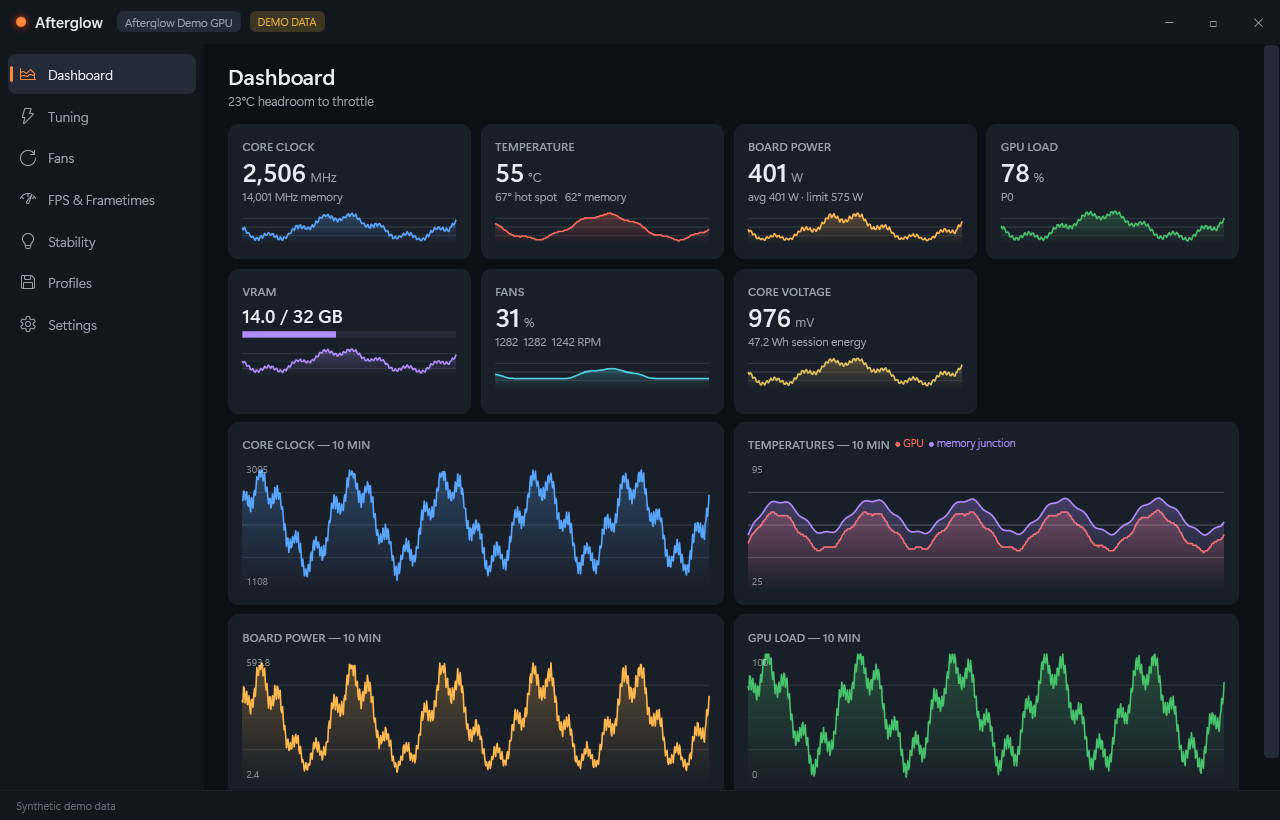
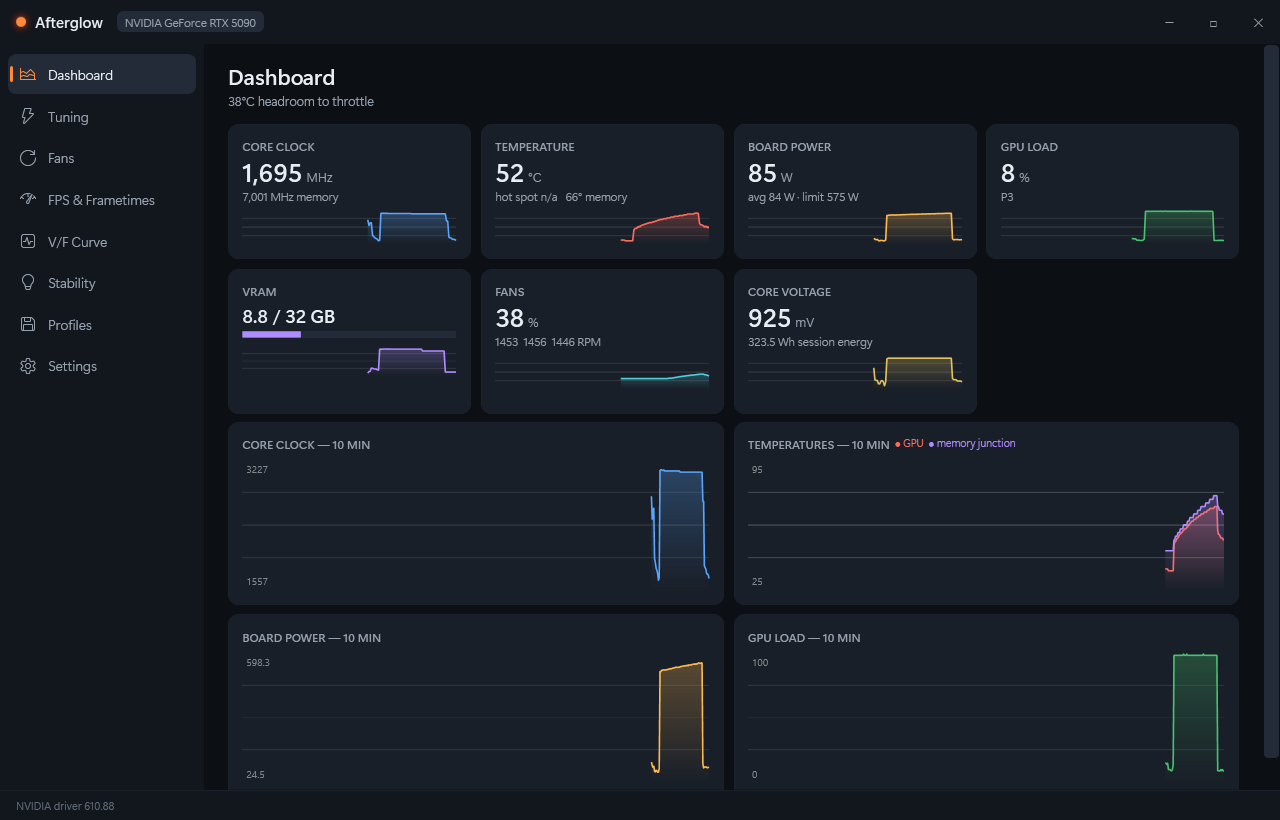
Fix V/F chart label collisions; real-hardware screenshots in the README
- The x-axis unit rides on the final tick label instead of a floating
  mV that collided with it; tick labels clamp inside the plot
- The live now marker and the target label render on backing pills
  with edge-aware placement, readable anywhere on the chart
- --screenshot-delay N lets screenshot mode accumulate longer telemetry
- README hero replaced with a real RTX 5090 capture (burn-test ramp
  across all graphs) and the measured V/F curve page added

diff --git a/src/Afterglow.App/Controls/VfCurveChart.cs b/src/Afterglow.App/Controls/VfCurveChart.cs
@@ -146,12 +146,23 @@ public sealed class VfCurveChart : FrameworkElement
 
         var gridPen = new Pen(GridBrush, 1);
 
-        // Axes
-        for (double v = _minV; v <= _maxV; v += Math.Max(25, Math.Round((_maxV - _minV) / 8 / 25) * 25))
+        // X axis: the unit rides on the last tick's label instead of floating
+        // separately (a standalone "mV" collides with the final tick).
+        double tickStep = Math.Max(25, Math.Round((_maxV - _minV) / 8 / 25) * 25);
+        var ticks = new List<double>();
+        for (double v = _minV; v <= _maxV + 0.01; v += tickStep)
         {
-            var p = ToScreen(v, _minF);
+            ticks.Add(v);
+        }
+
+        for (int i = 0; i < ticks.Count; i++)
+        {
+            var p = ToScreen(ticks[i], _minF);
             dc.DrawLine(gridPen, new Point(p.X, r.Y), new Point(p.X, r.Bottom));
-            DrawLabel(dc, $"{v:F0}", new Point(p.X - 12, r.Bottom + 5), 10);
+            string text = i == ticks.Count - 1 ? $"{ticks[i]:F0} mV" : $"{ticks[i]:F0}";
+            var formatted = Format(text, 10, LabelBrush);
+            double x = Math.Min(p.X - (formatted.Width / 2), ActualWidth - formatted.Width - 2);
+            dc.DrawText(formatted, new Point(Math.Max(2, x), r.Bottom + 5));
         }
 
         for (int i = 0; i <= 4; i++)
@@ -161,8 +172,6 @@ public sealed class VfCurveChart : FrameworkElement
             dc.DrawLine(gridPen, new Point(r.X, p.Y), new Point(r.Right, p.Y));
             DrawLabel(dc, $"{f:F0}", new Point(4, p.Y - 7), 10);
         }
-
-        DrawLabel(dc, "mV", new Point(r.Right - 16, r.Bottom + 5), 10);
 
         if (curve is not { Count: > 1 })
         {
@@ -216,26 +225,48 @@ public sealed class VfCurveChart : FrameworkElement
             dc.DrawLine(dashed, new Point(r.X, t.Y), new Point(r.Right, t.Y));
             dc.DrawLine(dashed, new Point(t.X, r.Y), new Point(t.X, r.Bottom));
             dc.DrawEllipse(null, new Pen(TargetBrush, 2.5), t, 6, 6);
-            DrawLabel(dc, $"target {TargetClock:F0} MHz @ {TargetVoltage:F0} mV",
-                new Point(Math.Min(t.X + 10, r.Right - 165), t.Y - 18), 11, TargetBrush);
+
+            var targetLabel = Format($"target {TargetClock:F0} MHz @ {TargetVoltage:F0} mV", 11, TargetBrush);
+            double tx = Math.Clamp(t.X + 10, r.X + 2, r.Right - targetLabel.Width - 6);
+            double ty = Math.Clamp(t.Y - 20, r.Y + 2, r.Bottom - targetLabel.Height - 2);
+            var targetPill = new Rect(tx - 3, ty - 1, targetLabel.Width + 6, targetLabel.Height + 2);
+            dc.DrawRoundedRectangle(PillBrush, null, targetPill, 3, 3);
+            dc.DrawText(targetLabel, new Point(tx, ty));
         }
 
-        // Live operating point.
+        // Live operating point, labeled on a backing pill so it stays readable
+        // wherever it lands (on the curve, in shaded bars, near edges).
         if (LiveVoltage > 0 && LiveClock > 0)
         {
             var live = ToScreen(
                 Math.Clamp(LiveVoltage, _minV, _maxV),
                 Math.Clamp(LiveClock, _minF, _maxF));
             dc.DrawEllipse(LiveBrush, null, live, 4.5, 4.5);
-            DrawLabel(dc, "now", new Point(live.X + 8, live.Y - 16), 10, LiveBrush);
+
+            var label = Format("now", 10, LiveBrush);
+            double lx = live.X + 9;
+            double ly = live.Y - (label.Height / 2);
+            if (lx + label.Width + 6 > r.Right)
+            {
+                lx = live.X - label.Width - 13;
+            }
+
+            ly = Math.Clamp(ly, r.Y + 2, r.Bottom - label.Height - 2);
+            var pill = new Rect(lx - 3, ly - 1, label.Width + 6, label.Height + 2);
+            dc.DrawRoundedRectangle(PillBrush, null, pill, 3, 3);
+            dc.DrawText(label, new Point(lx, ly));
         }
     }
 
+    private static readonly Brush PillBrush = Freeze(new SolidColorBrush(Color.FromArgb(210, 12, 15, 20)));
+
+    private FormattedText Format(string text, double size, Brush brush) =>
+        new(text, CultureInfo.InvariantCulture, FlowDirection.LeftToRight,
+            LabelFace, size, brush, VisualTreeHelper.GetDpi(this).PixelsPerDip);
+
     private void DrawLabel(DrawingContext dc, string text, Point at, double size, Brush? brush = null)
     {
-        var formatted = new FormattedText(text, CultureInfo.InvariantCulture, FlowDirection.LeftToRight,
-            LabelFace, size, brush ?? LabelBrush, VisualTreeHelper.GetDpi(this).PixelsPerDip);
-        dc.DrawText(formatted, at);
+        dc.DrawText(Format(text, size, brush ?? LabelBrush), at);
     }
 
     protected override void OnMouseLeftButtonDown(MouseButtonEventArgs e)

diff --git a/src/Afterglow.App/App.xaml.cs b/src/Afterglow.App/App.xaml.cs
@@ -249,8 +249,10 @@ public partial class App : Application
     }
 
     /// <summary>
-    /// Renders the window off-screen after a few telemetry ticks and saves a PNG.
-    /// Used for automated visual verification and README screenshots.
+    /// Renders the window off-screen after telemetry has accumulated and saves a
+    /// PNG. Used for automated visual verification and README screenshots.
+    /// --screenshot-delay N extends the accumulation window (e.g., to capture
+    /// real graphs while a load runs).
     /// </summary>
     private void RunScreenshotMode(MainWindow window, string path)
     {
@@ -260,8 +262,19 @@ public partial class App : Application
         window.ShowActivated = false;
         window.Show();
 
+        double delaySeconds = 4;
+        string[] cliArgs = Environment.GetCommandLineArgs();
+        for (int i = 0; i < cliArgs.Length - 1; i++)
+        {
+            if (cliArgs[i].Equals("--screenshot-delay", StringComparison.OrdinalIgnoreCase) &&
+                double.TryParse(cliArgs[i + 1], out double parsed))
+            {
+                delaySeconds = Math.Clamp(parsed, 1, 600);
+            }
+        }
+
         int attempts = 0;
-        var timer = new DispatcherTimer { Interval = TimeSpan.FromSeconds(4) };
+        var timer = new DispatcherTimer { Interval = TimeSpan.FromSeconds(delaySeconds) };
         timer.Tick += (_, _) =>
         {
             attempts++;

diff --git a/README.md b/README.md
@@ -11,7 +11,9 @@
 </p>
 
 <p align="center">
-  <img src="docs/media/dashboard.png" width="820" alt="Afterglow dashboard" />
+  <img src="docs/media/dashboard.png" width="820" alt="Afterglow dashboard — live RTX 5090 telemetry during a burn test" />
+  <br/>
+  <sub>Real capture: an RTX 5090 riding through a built-in burn test — no synthetic data.</sub>
 </p>
 
 ---
@@ -53,6 +55,12 @@ Afterglow is a from-scratch, MIT-licensed answer:
   voltage the driver selects (plus continuous passive recording while you game). Pick any
   point on the measured curve and Afterglow computes the exact offset + lock that holds that
   clock at that voltage
+
+<p align="center">
+  <img src="docs/media/vfcurve.png" width="820" alt="Measured V/F curve of an RTX 5090" />
+  <br/>
+  <sub>An RTX 5090's real measured voltage/frequency curve — probed on hardware where NVIDIA removed the official curve APIs.</sub>
+</p>
 - Knob-by-knob apply results: every slider reports applied / clamped / failed individually
 
 **Fans**
